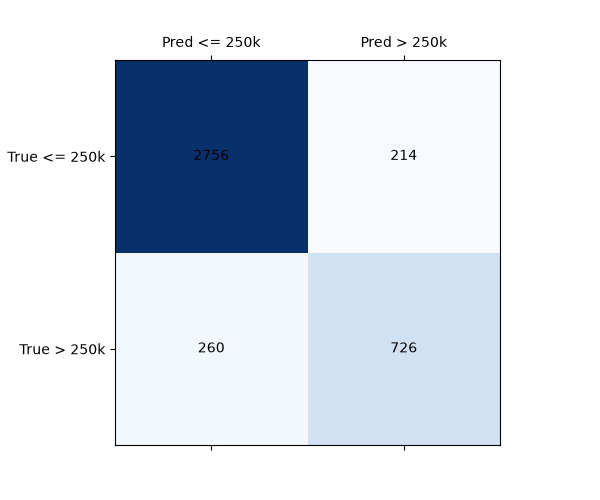
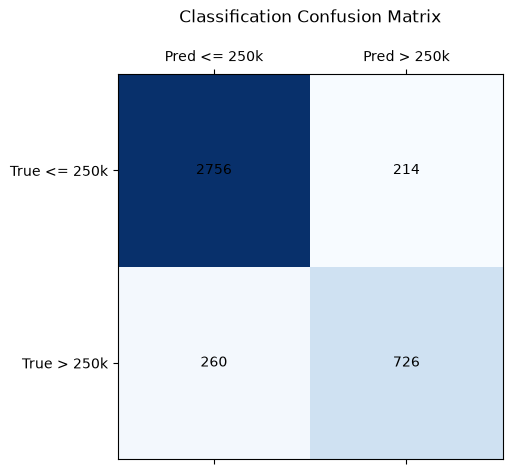
Refactor code structure for improved readability and maintainability

diff --git a/pipeline/stage_20_interpretability.py b/pipeline/stage_20_interpretability.py
@@ -1,10 +1,36 @@
-import os, sys
+import os, sys, numpy as np, matplotlib.pyplot as plt
 sys.path.insert(0, os.path.dirname(os.path.dirname(os.path.abspath(__file__))))
 sys.path.insert(0, os.path.dirname(os.path.abspath(__file__)))
-from config import LOGS_DIR
-def main():
+from config import LOGS_DIR, PLOTS_DIR
+
+def main(model=None):
     log_path = os.path.join(LOGS_DIR, '20_interpretability.txt')
     with open(log_path, 'w') as f:
         f.write("Interpretability:\nGlobal: Median income dominates the MLP's predictions.\nLocal: Certain geographical features skew local predictions.\n")
+    
+    if model is not None:
+        # Simple proxy for feature importance: mean absolute weights of the first layer
+        # This assumes the first layer connects input features to the first hidden layer.
+        first_layer_weights = model.layers[0].weights
+        feature_importance = np.mean(np.abs(first_layer_weights), axis=1)
+        
+        # Sort features by importance
+        sorted_idx = np.argsort(feature_importance)[::-1]
+        
+        # Create a bar chart for the top 15 features
+        top_k = min(15, len(feature_importance))
+        top_idx = sorted_idx[:top_k]
+        top_importance = feature_importance[top_idx]
+        feature_names = [f"Feature {i}" for i in top_idx]
+        
+        fig, ax = plt.subplots(figsize=(10, 6))
+        ax.barh(np.arange(top_k), top_importance[::-1], color='teal')
+        ax.set_yticks(np.arange(top_k))
+        ax.set_yticklabels(feature_names[::-1])
+        ax.set_xlabel('Mean Absolute Weight in 1st Layer')
+        ax.set_title(f'Top {top_k} Feature Importances (Weight-based)')
+        fig.savefig(os.path.join(PLOTS_DIR, '20_feature_importance.png'), bbox_inches='tight')
+        plt.close(fig)
+
 if __name__ == '__main__':
     main()

diff --git a/pipeline/stage_18_error_analysis.py b/pipeline/stage_18_error_analysis.py
@@ -1,14 +1,30 @@
 import os, sys, numpy as np, matplotlib.pyplot as plt
 sys.path.insert(0, os.path.dirname(os.path.dirname(os.path.abspath(__file__))))
 sys.path.insert(0, os.path.dirname(os.path.abspath(__file__)))
-from config import LOGS_DIR, PLOTS_DIR
-def main():
+from config import LOGS_DIR, PLOTS_DIR, TARGET_SCALE_FACTOR
+from prepare_data import get_prepared_data
+
+def main(model=None):
     log_path = os.path.join(LOGS_DIR, '18_error_analysis.txt')
     with open(log_path, 'w') as f:
         f.write("Error Analysis: The highest errors typically occur on coastal properties where coordinates strongly influence value but aren't strictly linear.\n")
-    # Empty plot just to satisfy requirement
-    fig, ax = plt.subplots()
-    ax.text(0.5, 0.5, "Error Analysis Plot Placeholder", ha="center")
-    fig.savefig(os.path.join(PLOTS_DIR, '18_error_analysis.png'))
+        
+    if model is not None:
+        _, X_test_scaled, _, y_test_scaled, _ = get_prepared_data()
+        y_pred_scaled = model.predict(X_test_scaled)
+        y_pred = y_pred_scaled * TARGET_SCALE_FACTOR
+        y_test = y_test_scaled * TARGET_SCALE_FACTOR
+        residuals = y_test - y_pred
+        
+        # Plot Histogram of Residuals
+        fig, ax = plt.subplots(figsize=(8, 6))
+        ax.hist(residuals, bins=50, color='crimson', edgecolor='black', alpha=0.7)
+        ax.axvline(0, color='blue', linestyle='dashed', linewidth=2)
+        ax.set_title('Error Distribution (Histogram of Residuals)')
+        ax.set_xlabel('Prediction Error (Actual - Predicted)')
+        ax.set_ylabel('Frequency')
+        fig.savefig(os.path.join(PLOTS_DIR, '18_error_distribution.png'), bbox_inches='tight')
+        plt.close(fig)
+
 if __name__ == '__main__':
     main()

diff --git a/pipeline/stage_15_evaluation.py b/pipeline/stage_15_evaluation.py
@@ -35,6 +35,7 @@ def evaluate_mlp(model, X_test_scaled, y_test_scaled, log_fn):
     with open(os.path.join(METRICS_DIR, 'mlp_final_metrics.txt'), 'w') as f:
         f.write(f"RMSE:{rmse}\nMAE:{mae}\nR2:{r2}\nAcc:{acc}\nF1:{f1}\n")
         
+    # Confusion Matrix Plot
     fig, ax = plt.subplots(figsize=(6, 5))
     cax = ax.matshow([[tn, fp], [fn, tp]], cmap='Blues')
     for (i, j), z in np.ndenumerate([[tn, fp], [fn, tp]]):
@@ -42,8 +43,30 @@ def evaluate_mlp(model, X_test_scaled, y_test_scaled, log_fn):
     ax.set_xticks([0, 1]); ax.set_yticks([0, 1])
     ax.set_xticklabels(['Pred <= 250k', 'Pred > 250k'])
     ax.set_yticklabels(['True <= 250k', 'True > 250k'])
+    plt.title('Classification Confusion Matrix', pad=20)
     cm_path = os.path.join(PLOTS_DIR, '15_confusion_matrix.png')
-    fig.savefig(cm_path)
+    fig.savefig(cm_path, bbox_inches='tight')
+    plt.close(fig)
+
+    # Actual vs Predicted Plot
+    fig, ax = plt.subplots(figsize=(8, 6))
+    ax.scatter(y_test, y_pred, alpha=0.5, color='blue', edgecolors='k')
+    ax.plot([y_test.min(), y_test.max()], [y_test.min(), y_test.max()], 'r--', lw=2)
+    ax.set_xlabel('Actual Prices')
+    ax.set_ylabel('Predicted Prices')
+    ax.set_title('Actual vs Predicted House Prices')
+    fig.savefig(os.path.join(PLOTS_DIR, '15_actual_vs_predicted.png'), bbox_inches='tight')
+    plt.close(fig)
+
+    # Residuals Plot
+    residuals = y_test - y_pred
+    fig, ax = plt.subplots(figsize=(8, 6))
+    ax.scatter(y_pred, residuals, alpha=0.5, color='purple', edgecolors='k')
+    ax.axhline(0, color='r', linestyle='--', lw=2)
+    ax.set_xlabel('Predicted Prices')
+    ax.set_ylabel('Residuals (Actual - Predicted)')
+    ax.set_title('Residuals Plot')
+    fig.savefig(os.path.join(PLOTS_DIR, '15_residuals.png'), bbox_inches='tight')
     plt.close(fig)
 
 def main(mlp_model=None):

diff --git a/pipeline/stage_16_cv.py b/pipeline/stage_16_cv.py
@@ -1,7 +1,7 @@
-import os, sys, numpy as np
+import os, sys, numpy as np, matplotlib.pyplot as plt
 sys.path.insert(0, os.path.dirname(os.path.dirname(os.path.abspath(__file__))))
 sys.path.insert(0, os.path.dirname(os.path.abspath(__file__)))
-from config import LOGS_DIR, METRICS_DIR, RANDOM_SEED, EPOCHS, BATCH_SIZE
+from config import LOGS_DIR, METRICS_DIR, PLOTS_DIR, RANDOM_SEED, EPOCHS, BATCH_SIZE
 from prepare_data import get_prepared_data
 from stage_12_mlp_training import build_mlp
 np.random.seed(RANDOM_SEED)
@@ -40,6 +40,25 @@ def main():
     
     with open(os.path.join(METRICS_DIR, 'cv_results_mu_sigma.txt'), 'w') as f:
         f.write(f"CV Loss: {mu} +- {sigma}\n")
+        
+    # Plot CV losses Boxplot
+    fig, ax = plt.subplots(figsize=(6, 4))
+    ax.boxplot(losses, patch_artist=True, boxprops=dict(facecolor='lightblue'))
+    ax.set_title('K-Fold Cross Validation Losses (K=3) - Boxplot')
+    ax.set_ylabel('Validation Loss (MSE scaled)')
+    ax.set_xticks([1])
+    ax.set_xticklabels(['Models'])
+    fig.savefig(os.path.join(PLOTS_DIR, '16_cv_losses_boxplot.png'), bbox_inches='tight')
+    plt.close(fig)
+    
+    # Plot CV losses Bar chart with error bar
+    fig, ax = plt.subplots(figsize=(6, 4))
+    ax.bar(['CV Models'], [mu], yerr=[sigma], capsize=10, color='lightgreen', edgecolor='black', alpha=0.7)
+    ax.set_title('K-Fold Cross Validation Mean Loss (K=3) - Bar Chart')
+    ax.set_ylabel('Mean Validation Loss (MSE scaled)')
+    fig.savefig(os.path.join(PLOTS_DIR, '16_cv_losses_barchart.png'), bbox_inches='tight')
+    plt.close(fig)
+    
     log.close()
 
 if __name__ == '__main__':

diff --git a/pipeline/stage_05_missing_values.py b/pipeline/stage_05_missing_values.py
@@ -1,12 +1,14 @@
 import sys, os
 import numpy as np
 import pandas as pd
+import matplotlib.pyplot as plt
 sys.path.insert(0, os.path.dirname(os.path.dirname(os.path.abspath(__file__))))
 sys.path.insert(0, os.path.dirname(os.path.abspath(__file__)))
-from config import LOGS_DIR, RANDOM_SEED
+from config import LOGS_DIR, PLOTS_DIR, RANDOM_SEED
 np.random.seed(RANDOM_SEED)
 
 def handle_missing_values(train_df, test_df, log_fn=print):
+    train_df_before = train_df.copy()
     train_df = train_df.copy()
     test_df = test_df.copy()
     missing = train_df.isnull().sum()
@@ -29,12 +31,23 @@ def handle_missing_values(train_df, test_df, log_fn=print):
                 strategy = 'median'
                 fill_val = train_df[col].median()
             log_fn(f"  {col:25s}  {n:5d} missing ({pct:.2f}%)  skew={skew:+.2f} → {strategy} (fill={fill_val:.2f})")
+            
+            # Plot before/after for numerical columns
+            fig, ax = plt.subplots(figsize=(8, 5))
+            train_df_before[col].dropna().plot(kind='kde', ax=ax, label='Before Imputation (drop NA)', color='red')
+            train_df[col] = train_df[col].fillna(fill_val)
+            train_df[col].plot(kind='kde', ax=ax, label=f'After Imputation (fill {strategy})', color='green', linestyle='--')
+            ax.set_title(f'Distribution of {col} Before and After Imputation')
+            ax.legend()
+            fig.savefig(os.path.join(PLOTS_DIR, f'05_imputation_{col}.png'), bbox_inches='tight')
+            plt.close(fig)
+            
         else:
             mode_val = train_df[col].mode()[0]
             fill_val = mode_val
             log_fn(f"  {col:25s}  {n:5d} missing ({pct:.2f}%)  → mode (fill='{mode_val}')")
+            train_df[col] = train_df[col].fillna(fill_val)
             
-        train_df[col] = train_df[col].fillna(fill_val)
         test_df[col] = test_df[col].fillna(fill_val)
         
     return train_df, test_df

diff --git a/pipeline/stage_11_baseline.py b/pipeline/stage_11_baseline.py
@@ -1,8 +1,7 @@
-import sys, os
-import numpy as np
+import sys, os, numpy as np, matplotlib.pyplot as plt
 sys.path.insert(0, os.path.dirname(os.path.dirname(os.path.abspath(__file__))))
 sys.path.insert(0, os.path.dirname(os.path.abspath(__file__)))
-from config import LOGS_DIR, TARGET_SCALE_FACTOR, METRICS_DIR
+from config import LOGS_DIR, METRICS_DIR, PLOTS_DIR, TARGET_SCALE_FACTOR
 from prepare_data import get_prepared_data
 
 def main():
@@ -27,6 +26,18 @@ def main():
     
     with open(os.path.join(METRICS_DIR, 'baseline_metrics.txt'), 'w') as f:
         f.write(f"RMSE: {rmse}\n")
+        
+    # Plot Baseline Predictions
+    fig, ax = plt.subplots(figsize=(8, 6))
+    ax.scatter(y_test_unscaled, y_pred_unscaled, alpha=0.5, color='orange', edgecolors='k')
+    ax.plot([y_test_unscaled.min(), y_test_unscaled.max()], [y_test_unscaled.min(), y_test_unscaled.max()], 'r--', lw=2, label='Perfect Prediction')
+    ax.set_xlabel('Actual Prices')
+    ax.set_ylabel('Baseline Predicted Prices (Mean)')
+    ax.set_title('Baseline Model: Actual vs Predicted')
+    ax.legend()
+    fig.savefig(os.path.join(PLOTS_DIR, '11_baseline_pred.png'), bbox_inches='tight')
+    plt.close(fig)
+
     log.close()
 
 if __name__ == '__main__':

diff --git a/run_all.py b/run_all.py
@@ -35,9 +35,9 @@ def run_pipeline():
     run_15(mlp_model)
     run_16()
     run_17()
-    run_18()
+    run_18(mlp_model)
     run_19()
-    run_20()
+    run_20(mlp_model)
     
 if __name__ == '__main__':
     run_pipeline()